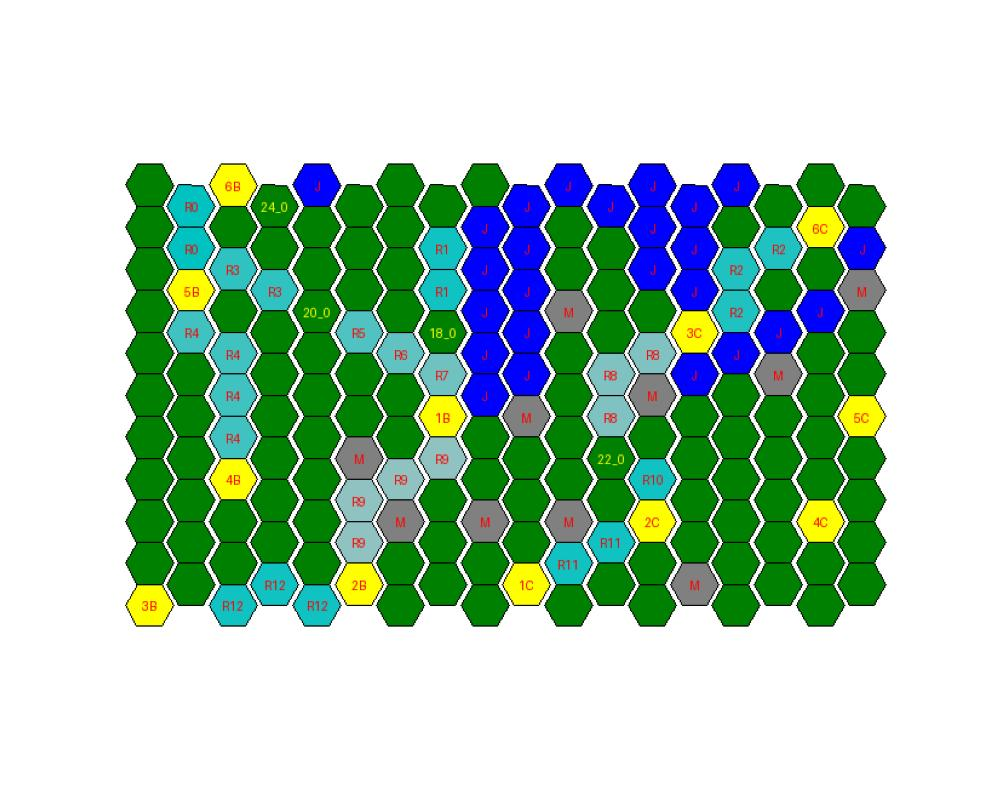
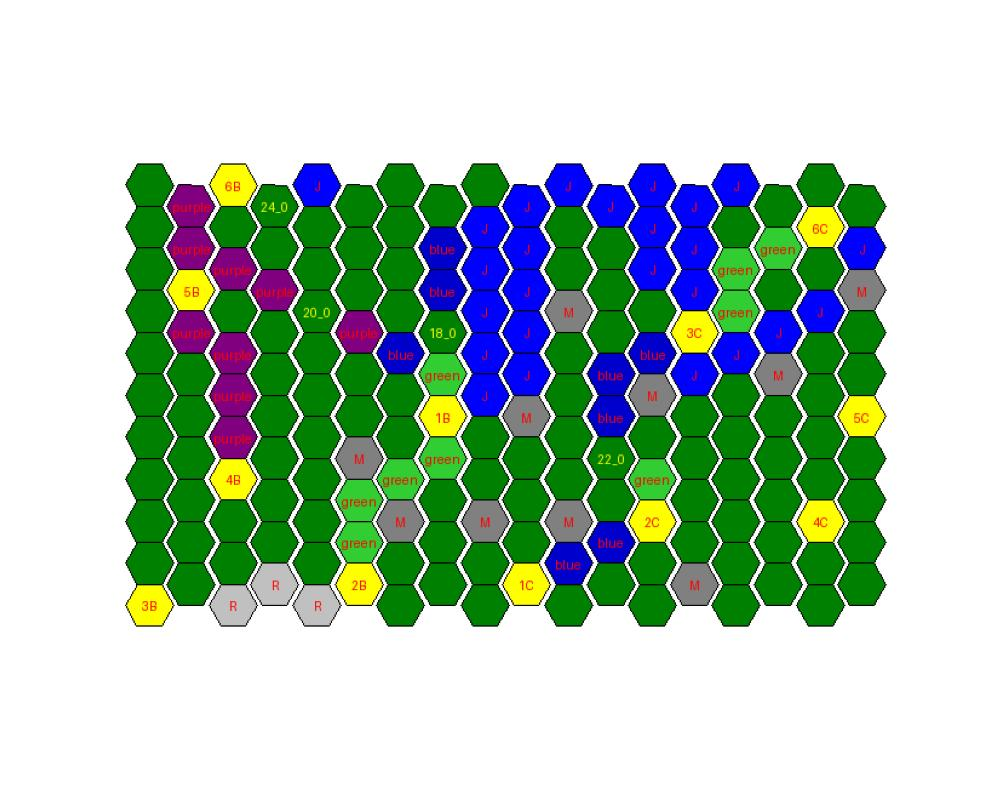
git

diff --git a/ImageToBoard.py b/ImageToBoard.py
@@ -40,6 +40,9 @@ class ImageToBoard:
 
         if os.path.exists(folder_path2):
             shutil.rmtree(folder_path2)
+
+        if os.path.exists(folder_path3):
+            shutil.rmtree(folder_path3)
         
         shutil.copy2(self.image_path, 'original.jpg')
 
@@ -98,11 +101,14 @@ class ImageToBoard:
         self.tab[1][17] = "J"
 
     def translate_roads(self,roads):
-        ind = 0
+        print('=========')
+        print(self.roads_name)
         for i in range(len(roads)):
             for state in roads[i]:
-                self.tab[state[0]][state[1]] = self.roads_name_translated[int(self.roads_name[ind])]
-            ind+=1
+                if i < len(self.roads_name):
+                    self.tab[state[0]][state[1]] = self.roads_name_translated[int(self.roads_name[i])]
+                else:
+                    self.tab[state[0]][state[1]] = "R"
         return self.tab
     def load_model(self):
         self.model = YOLO(self.model_path)
@@ -164,8 +170,27 @@ class ImageToBoard:
 
         if text_:
             color = "yellow"
-            if text_[0] == "R":
-                draw.polygon(points, outline=(0, 0, 0), fill='#'+str(text_[1])+'0C2C1')
+            ['black', 'blue', 'green', 'purple', 'red', '-', 'yellow']
+            if text_ == "black":
+                draw.polygon(points, outline=(0, 0, 0), fill='black')
+                color = "red"
+            if text_ == "blue":
+                draw.polygon(points, outline=(0, 0, 0), fill='mediumblue')
+                color = "red"
+            if text_ == "green":
+                draw.polygon(points, outline=(0, 0, 0), fill='limegreen')
+                color = "red"
+            if text_ == "purple":
+                draw.polygon(points, outline=(0, 0, 0), fill='purple')
+                color = "red"
+            if text_ == "red":
+                draw.polygon(points, outline=(0, 0, 0), fill='red')
+                color = "red"
+            if text_ == "yellow":
+                draw.polygon(points, outline=(0, 0, 0), fill='gold')
+                color = "red"
+            if text_ == "R":
+                draw.polygon(points, outline=(0, 0, 0), fill='silver')
                 color = "red"
             if text_ == "J":
                 draw.polygon(points, outline=(0, 0, 0),fill='blue')

diff --git a/app.py b/app.py
@@ -79,10 +79,12 @@ class PhotoProcessingApp(QWidget):
         if self.image is not None:
             model_path = 'Roboflow_model/best.pt'
             model_grid_path = 'Roboflow_model/best_grid.pt'
+            model_markup_path = 'Roboflow_model/best_markups.pt'
             folder_path = 'runs/detect/predict'
             folder_path2 = 'runs/detect/predict2'
+            folder_path3 = 'runs/detect/predict3'
 
-            image_to_board = ImageToBoard.ImageToBoard(self.image_path, model_path, model_grid_path, folder_path, folder_path2)
+            image_to_board = ImageToBoard.ImageToBoard(self.image_path, model_path, model_grid_path, model_markup_path, folder_path, folder_path2, folder_path3)
             tab , tabNp = image_to_board.run()
 
             processed_pixmap = QPixmap("board.png")
